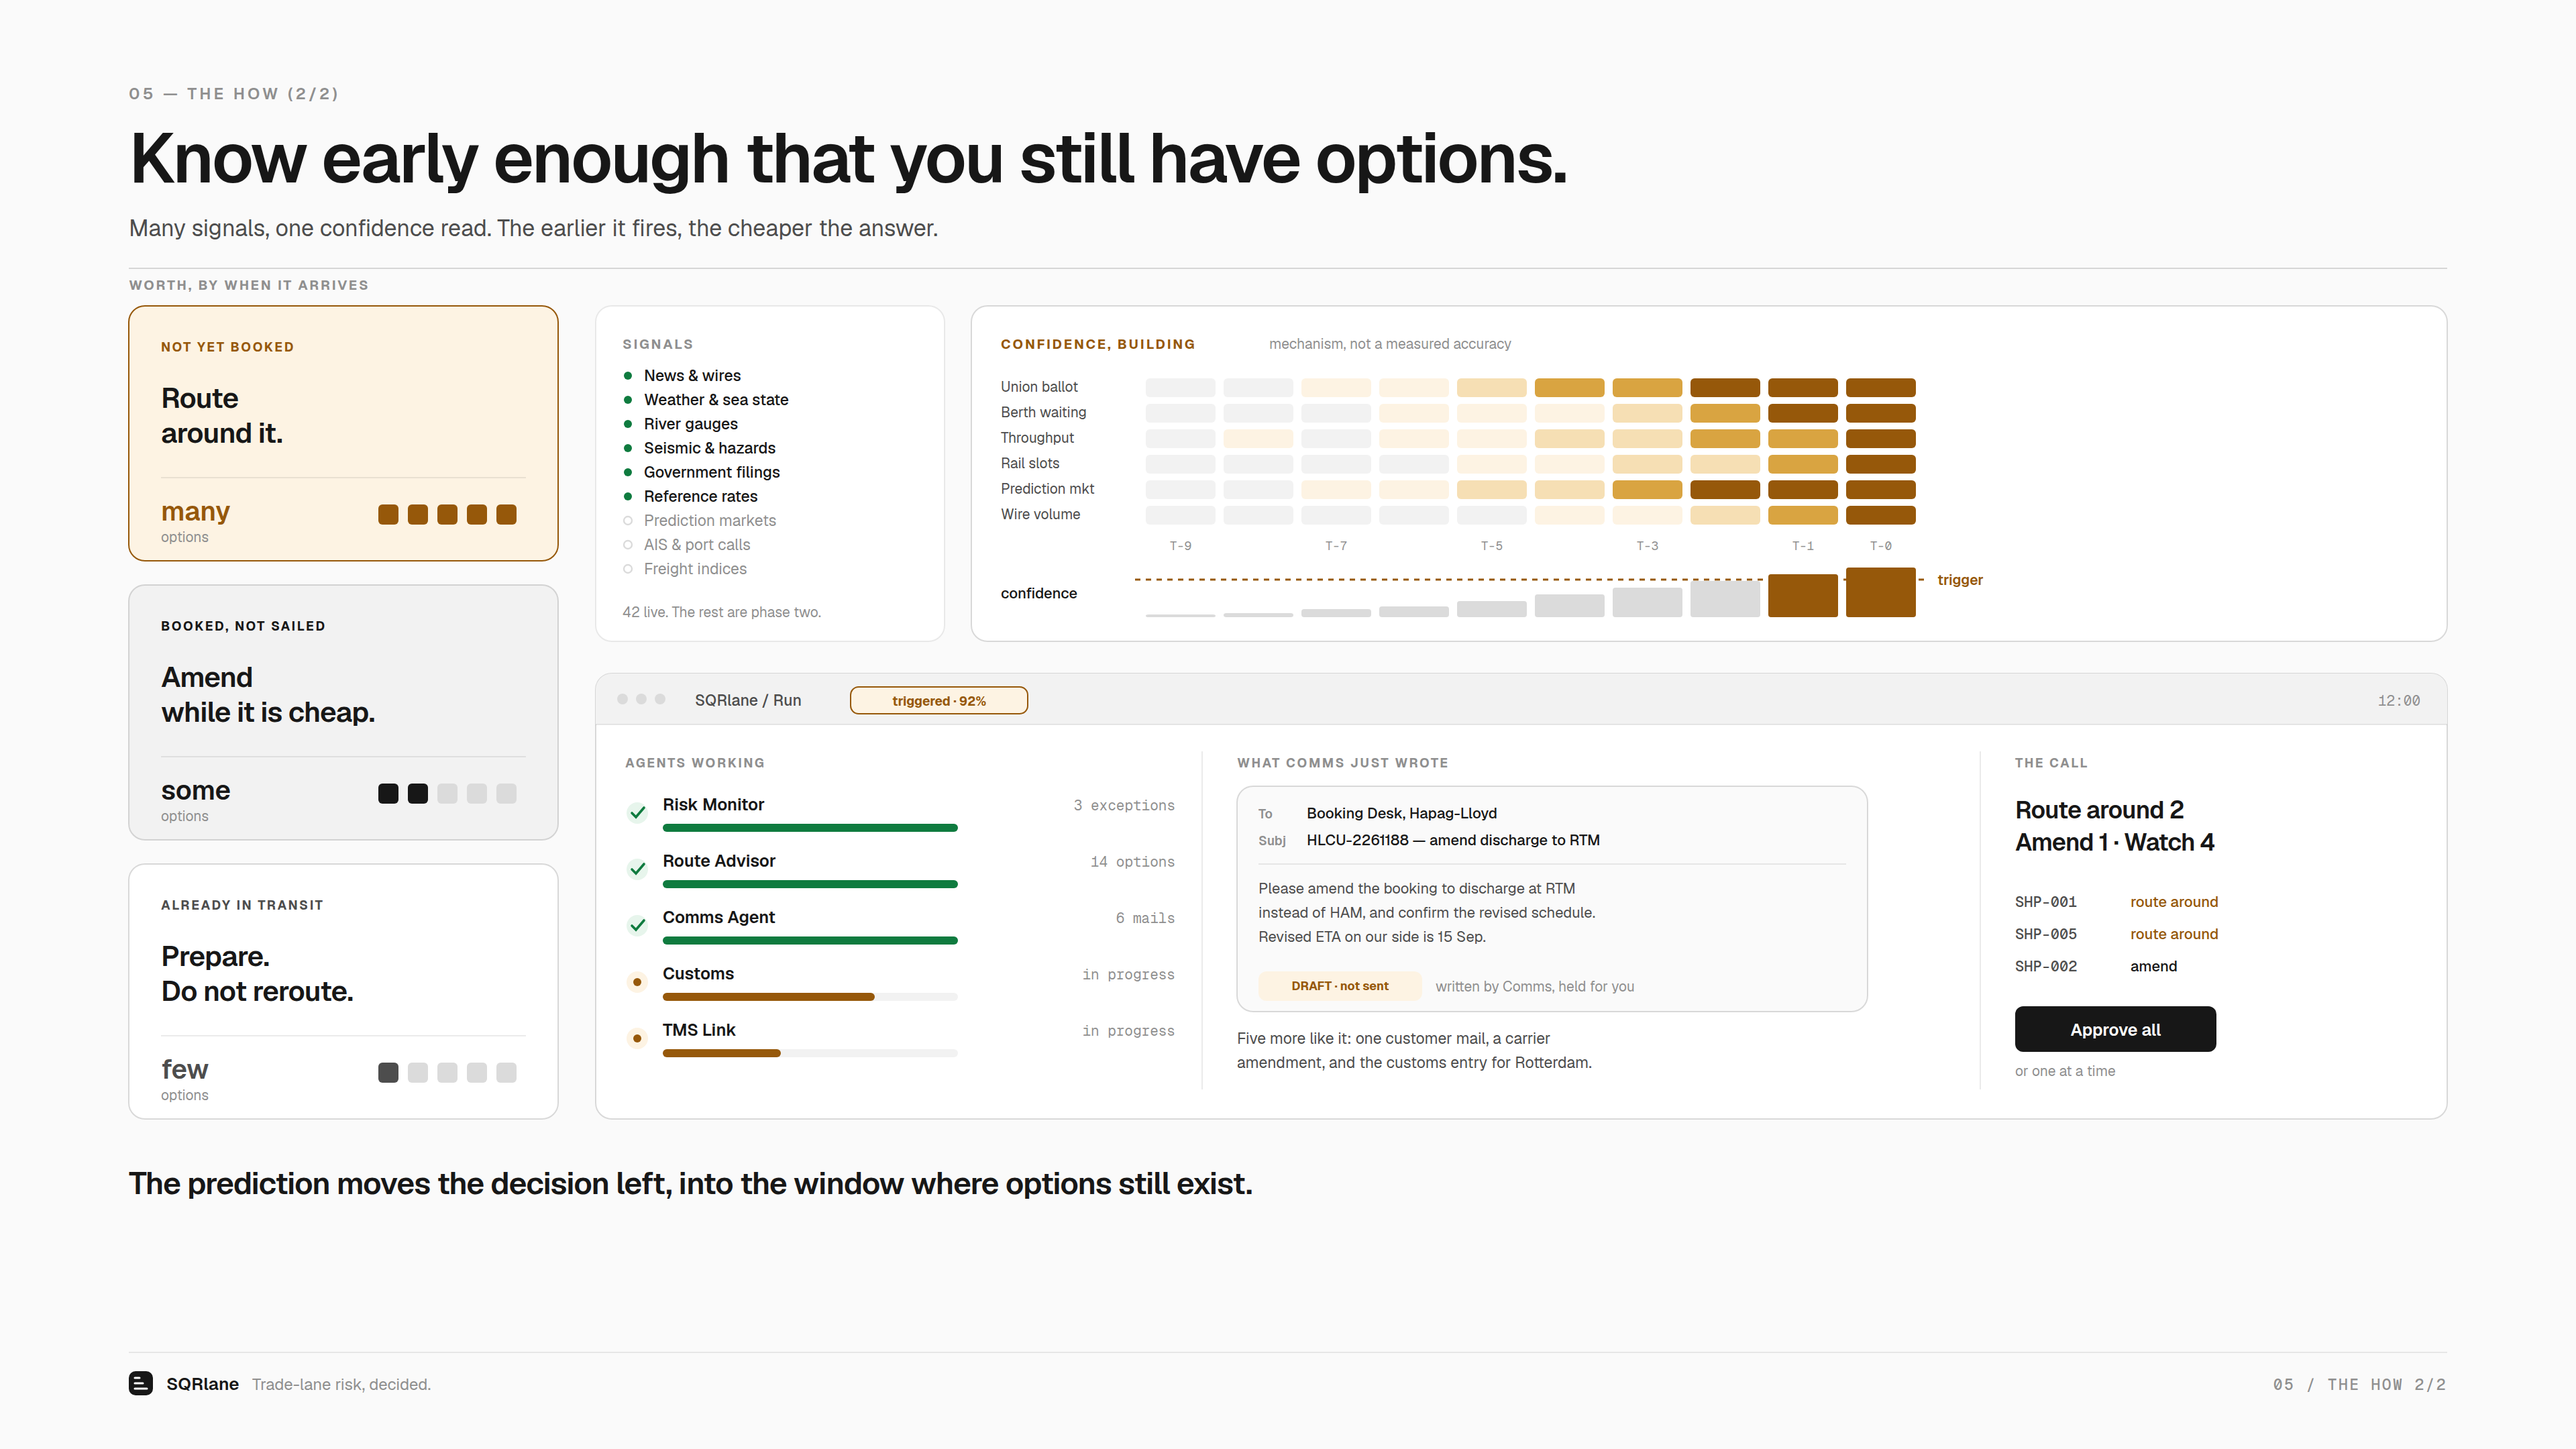
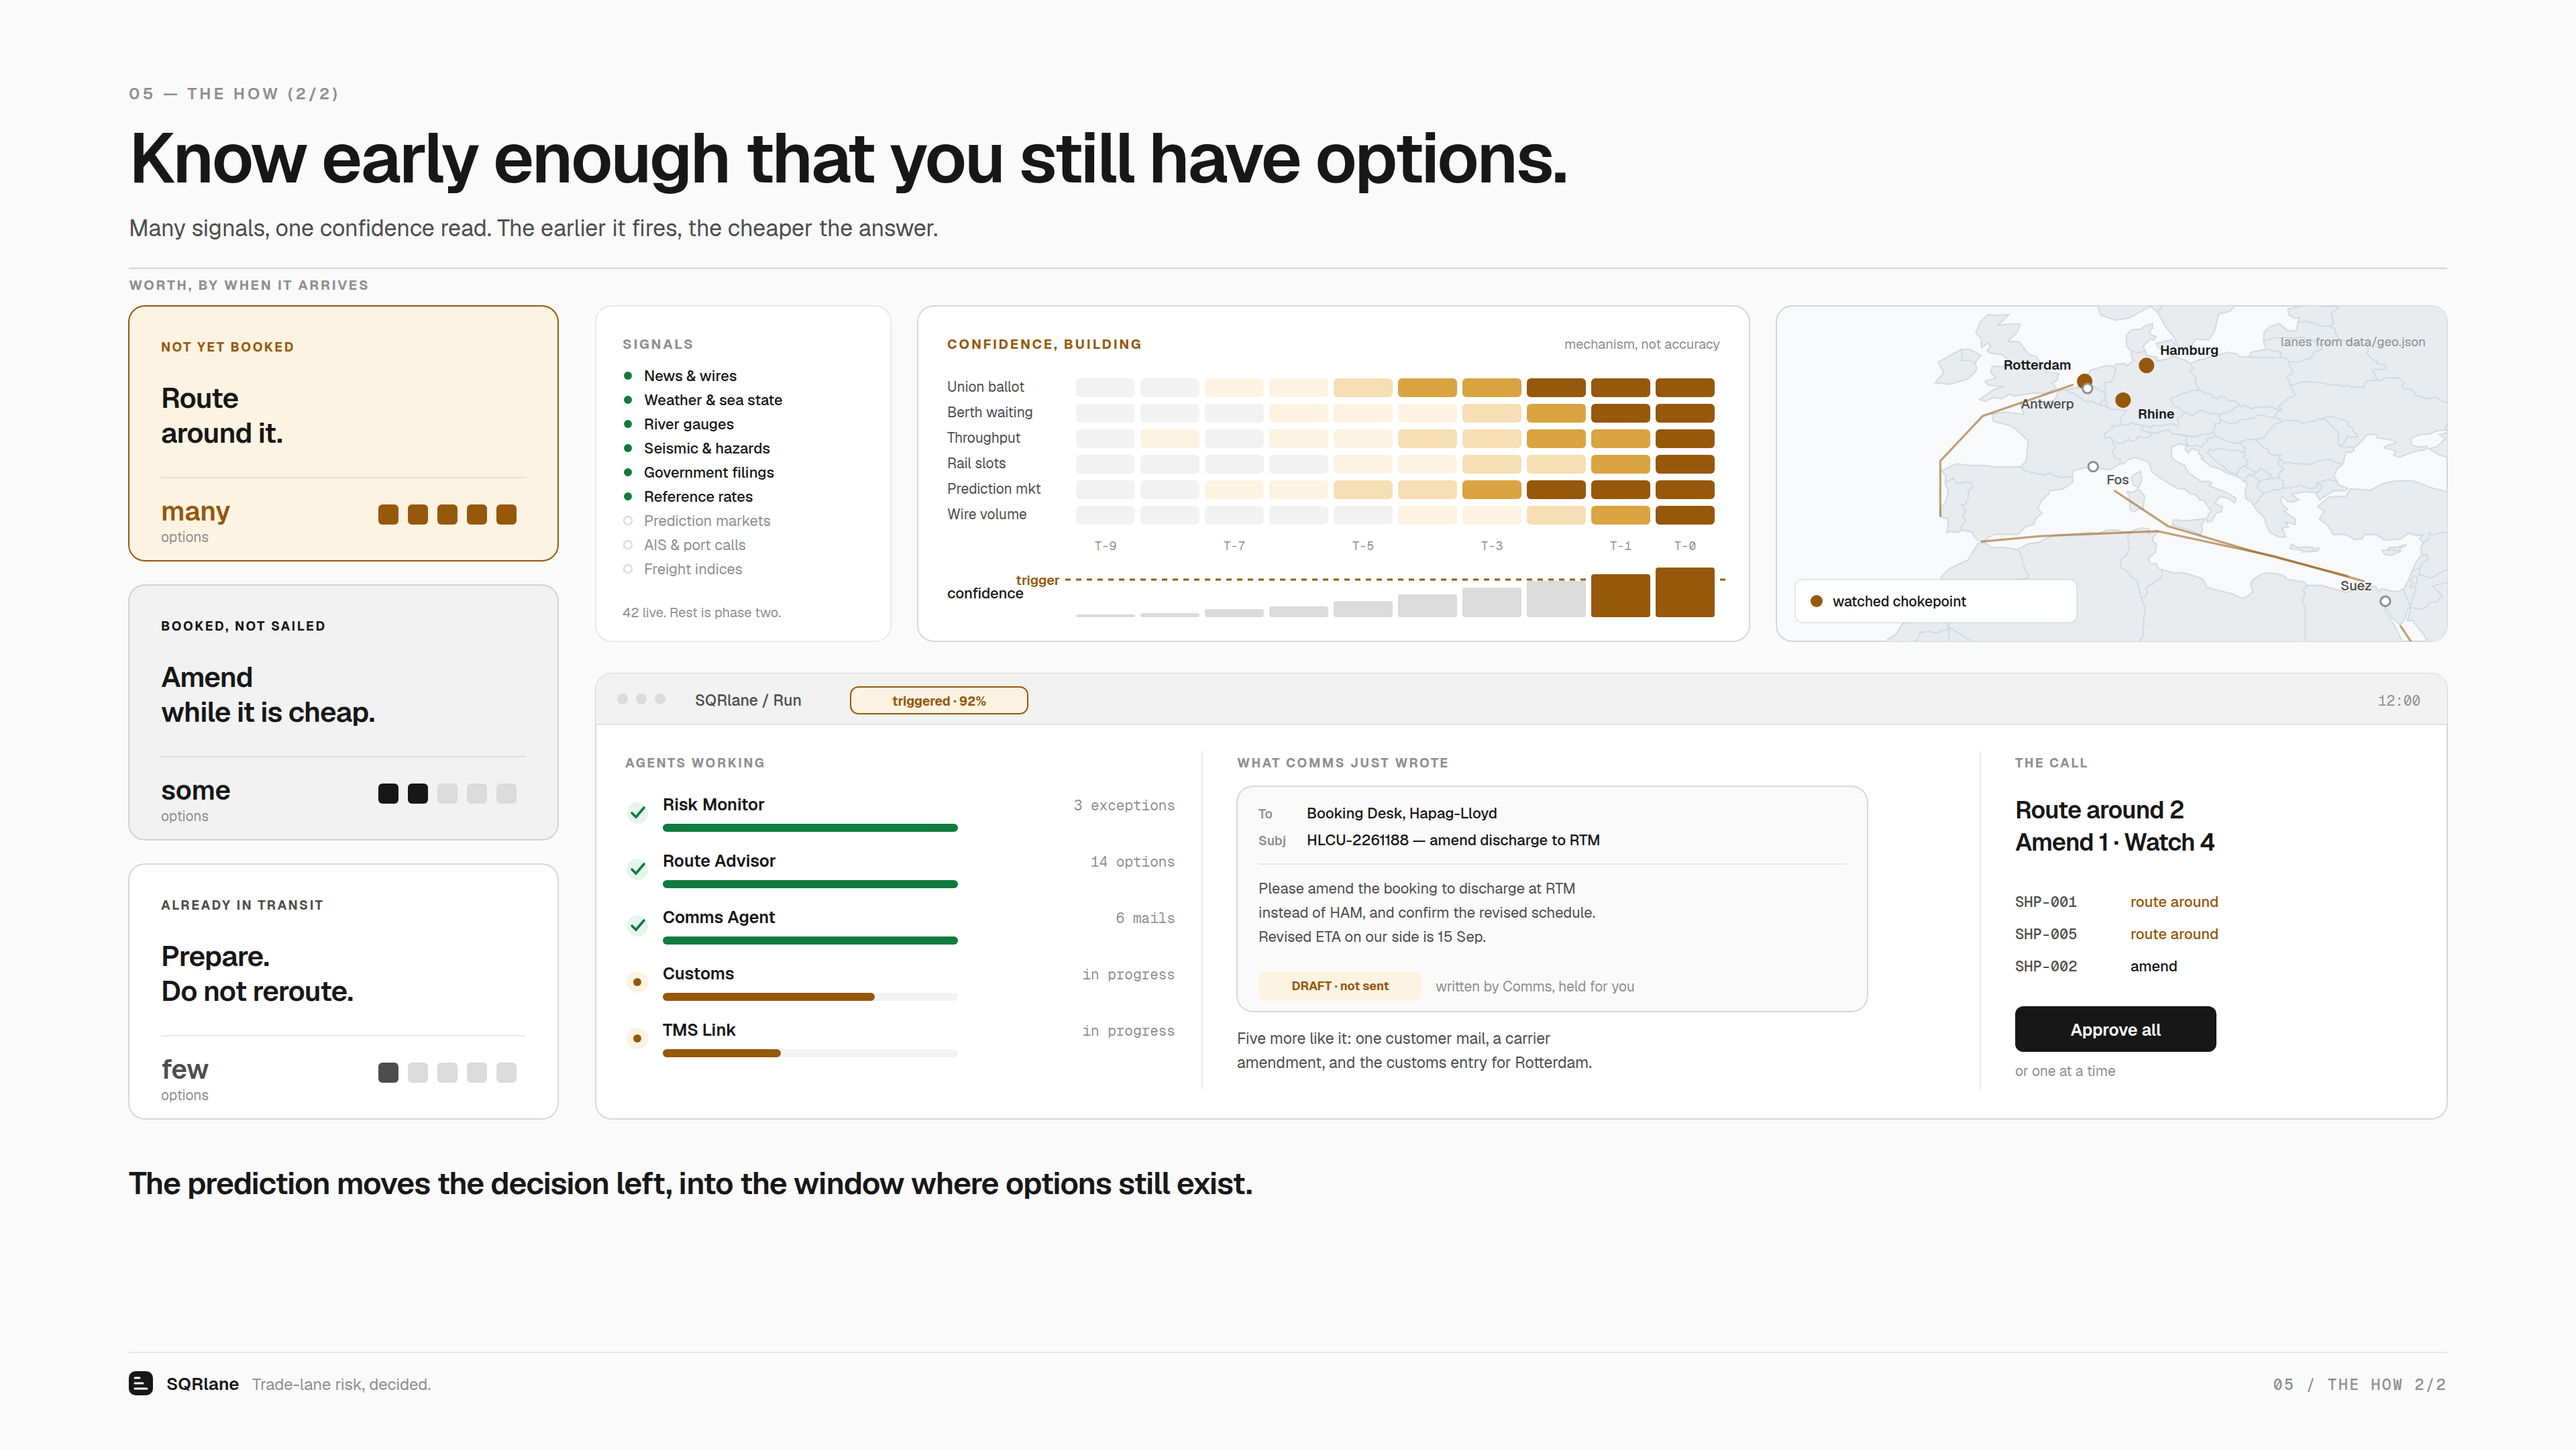
Deck: a real map on How 2/2, built from the product's own geometry
The whitespace beside the confidence grid now holds Europe and the approaches
it is reached through. Nothing about it is drawn by hand: the coastline is
lifted at build time from the COAST constant in static/index.html, the lanes
are the corridor waypoint chains in data/geo.json, and the ports are their
real coordinates. The deck's map and the dashboard's map are therefore the
same geometry rather than two guesses that will drift apart.

Framed to lon -25..38, lat 26..59.5 so the north European discharge ports, the
Rhine and Suez are all in view, clipped and scaled into the panel. Amber marks
a watched chokepoint, and the ones this scenario moves - Hamburg, Rotterdam,
the Rhine - are filled while the rest are outlined.

Signals and the confidence card narrow to make room; the trigger label moves
to the left of its dashed line, where it no longer sits on the T-0 column
header.

Claude-Session: https://claude.ai/code/session_01CuQZ1wNRwUerJJo7pbi7JH

diff --git a/deck/build_slide_05.py b/deck/build_slide_05.py
@@ -15,6 +15,20 @@ where options still exist.
 The confidence grid shows the mechanism, not a measured accuracy, and says so.
 """
 from deckkit import *
+import json, re
+
+# The coastline the product itself draws, reused verbatim so the deck's map and
+# the dashboard's map are the same geometry rather than two hand-drawn guesses.
+_H = (ROOT / "static" / "index.html").read_text()
+COAST = re.search(r'const COAST\s*=\s*"([^"]+)"', _H).group(1)
+GEO = json.loads((ROOT / "data" / "geo.json").read_text())
+FR = GEO["_frame"]
+
+
+def proj(lat, lon):
+    x = (lon - FR["lon0"]) / (FR["lon1"] - FR["lon0"]) * FR["width"]
+    y = (FR["lat1"] - lat) / (FR["lat1"] - FR["lat0"]) * FR["height"]
+    return x, y
 
 GREEN, GREEN_BG = "#0f7b3f", "#e7f5ec"
 BLUE, BLUE_BG = "#006bff", "#e8f1ff"
@@ -50,7 +64,7 @@ for i, (label, head, opts, n, col, bg, stroke) in enumerate(WINDOWS):
 # TOP RIGHT - signals and the confidence read
 # =========================================================================
 TOP = 228
-SX, SW, SH = 444, 260, 250
+SX, SW, SH = 444, 220, 250
 s.card(SX, TOP, SW, SH)
 sx = SX + 20
 s.text(sx, TOP + 32, "SIGNALS", 10, 700, FAINT, ls=1.4)
@@ -61,21 +75,21 @@ for j, (fam, live) in enumerate(FAMS):
     y = TOP + 56 + j * 18
     s.raw(f'<circle cx="{sx+4}" cy="{y-4}" r="3" fill="{GREEN if live else "none"}" '
           f'stroke="{GRAY400}" stroke-width="{0 if live else 1.2}"/>')
-    s.text(sx + 16, y, fam, 11.5, 500 if live else 400, FG if live else FAINT)
-s.text(sx, TOP + 232, "42 live. The rest are phase two.", 10.5, 400, FAINT)
+    s.text(sx + 16, y, fam, 11, 500 if live else 400, FG if live else FAINT)
+s.text(sx, TOP + 232, "42 live. Rest is phase two.", 10, 400, FAINT)
 
-HX, HW = 724, W - M - 724
+HX, HW = 684, 620
 s.card(HX, TOP, HW, SH, stroke=BORDER_STRONG)
 hx = HX + 22
 s.text(hx, TOP + 32, "CONFIDENCE, BUILDING", 10, 700, AMBER, ls=1.4)
-s.text(hx + 200, TOP + 32, "mechanism, not a measured accuracy", 10.5, 400, FAINT)
+s.text(HX + HW - 22, TOP + 32, "mechanism, not accuracy", 10, 400, FAINT, anchor="end")
 VARS = [("Union ballot", [0, 0, 1, 1, 2, 3, 3, 4, 4, 4]),
         ("Berth waiting", [0, 0, 0, 1, 1, 1, 2, 3, 4, 4]),
         ("Throughput", [0, 1, 0, 1, 1, 2, 2, 3, 3, 4]),
         ("Rail slots", [0, 0, 0, 0, 1, 1, 2, 2, 3, 4]),
         ("Prediction mkt", [0, 0, 1, 1, 2, 2, 3, 4, 4, 4]),
         ("Wire volume", [0, 0, 0, 0, 0, 1, 1, 2, 3, 4])]
-GX, CELL, GAP = hx + 108, 52, 6
+GX, CELL, GAP = hx + 96, 44, 4
 for r, (name, row) in enumerate(VARS):
     y = TOP + 54 + r * 19
     s.text(hx, y + 10, name, 10.5, 400, MUTED)
@@ -93,7 +107,51 @@ for c, v in enumerate(CONF):
           f'rx="2" fill="{AMBER if v >= 70 else GRAY400}"/>')
 ty = BASE - HGT * 0.70
 s.line(GX - 8, ty, GX + 10 * (CELL + GAP) - GAP + 8, ty, AMBER, 1.4, dash="4 4")
-s.text(GX + 10 * (CELL + GAP) + 10, ty + 4, "trigger", 10.5, 600, AMBER)
+s.text(GX - 12, ty + 4, "trigger", 10, 600, AMBER, anchor="end")
+
+# =========================================================================
+# THE LANES, ON A MAP - Europe and the approaches it is reached through
+# =========================================================================
+MX, MW, MH = 1324, W - M - 1324, SH
+LON0, LON1, LAT0, LAT1 = -25.0, 38.4, 26.0, 59.5
+_x0, _y0 = proj(LAT1, LON0)
+_x1, _y1 = proj(LAT0, LON1)
+SC = MW / (_x1 - _x0)
+
+s.card(MX, TOP, MW, MH, fill="#f7f9fb", stroke=BORDER_STRONG)
+s.raw(f'<clipPath id="mclip"><rect x="{MX}" y="{TOP}" width="{MW}" height="{MH}" rx="{RMD}"/></clipPath>')
+s.raw(f'<g clip-path="url(#mclip)">'
+      f'<g transform="translate({MX - _x0*SC:.1f},{TOP - _y0*SC:.1f}) scale({SC:.4f})">'
+      f'<path d="{COAST}" fill="#e8ecef" stroke="#d3d9de" stroke-width="0.7"/></g></g>')
+
+
+def mp(lat, lon):
+    x, y = proj(lat, lon)
+    return MX + (x - _x0) * SC, TOP + (y - _y0) * SC
+
+
+s.raw('<g clip-path="url(#mclip)">')
+for name in ("redsea_to_suez", "suez_to_gibraltar", "suez_to_fos", "gibraltar_to_northsea"):
+    pts = [mp(la, lo) for la, lo in GEO["corridors"][name]]
+    d = " ".join(f"{'M' if i==0 else 'L'}{x:.1f},{y:.1f}" for i, (x, y) in enumerate(pts))
+    s.raw(f'<path d="{d}" fill="none" stroke="{AMBER}" stroke-width="1.6" '
+          f'stroke-linecap="round" opacity="0.55"/>')
+s.raw('</g>')
+
+PORTS = [("HAM", "Hamburg", 1, 10, -8, "start"), ("RTM", "Rotterdam", 1, -10, -9, "end"),
+         ("ANR", "Antwerp", 0, -10, 15, "end"), ("RHINE", "Rhine", 1, 11, 14, "start"),
+         ("FOS", "Fos", 0, 10, 13, "start"), ("SUEZ", "Suez", 0, -10, -8, "end")]
+for pid, lab, hot, dx, dy, anc in PORTS:
+    p = GEO["places"][pid]
+    x, y = mp(p["lat"], p["lon"])
+    s.raw(f'<circle cx="{x:.1f}" cy="{y:.1f}" r="{5 if hot else 3.6}" '
+          f'fill="{AMBER if hot else CARD}" stroke="{AMBER if hot else FAINT}" stroke-width="1.5"/>')
+    s.text(x + dx, y + dy, lab, 10, 600 if hot else 500, FG if hot else MUTED, anchor=anc)
+
+s.card(MX + 14, TOP + MH - 46, 210, 32, fill=CARD, stroke=BORDER, rx=R)
+s.raw(f'<circle cx="{MX+30}" cy="{TOP+MH-30}" r="4.5" fill="{AMBER}"/>')
+s.text(MX + 42, TOP + MH - 26, "watched chokepoint", 10.5, 500, FG)
+s.text(MX + MW - 16, TOP + 30, "lanes from data/geo.json", 9.5, 400, FAINT, anchor="end")
 
 # =========================================================================
 # THE APP, MID-RUN
